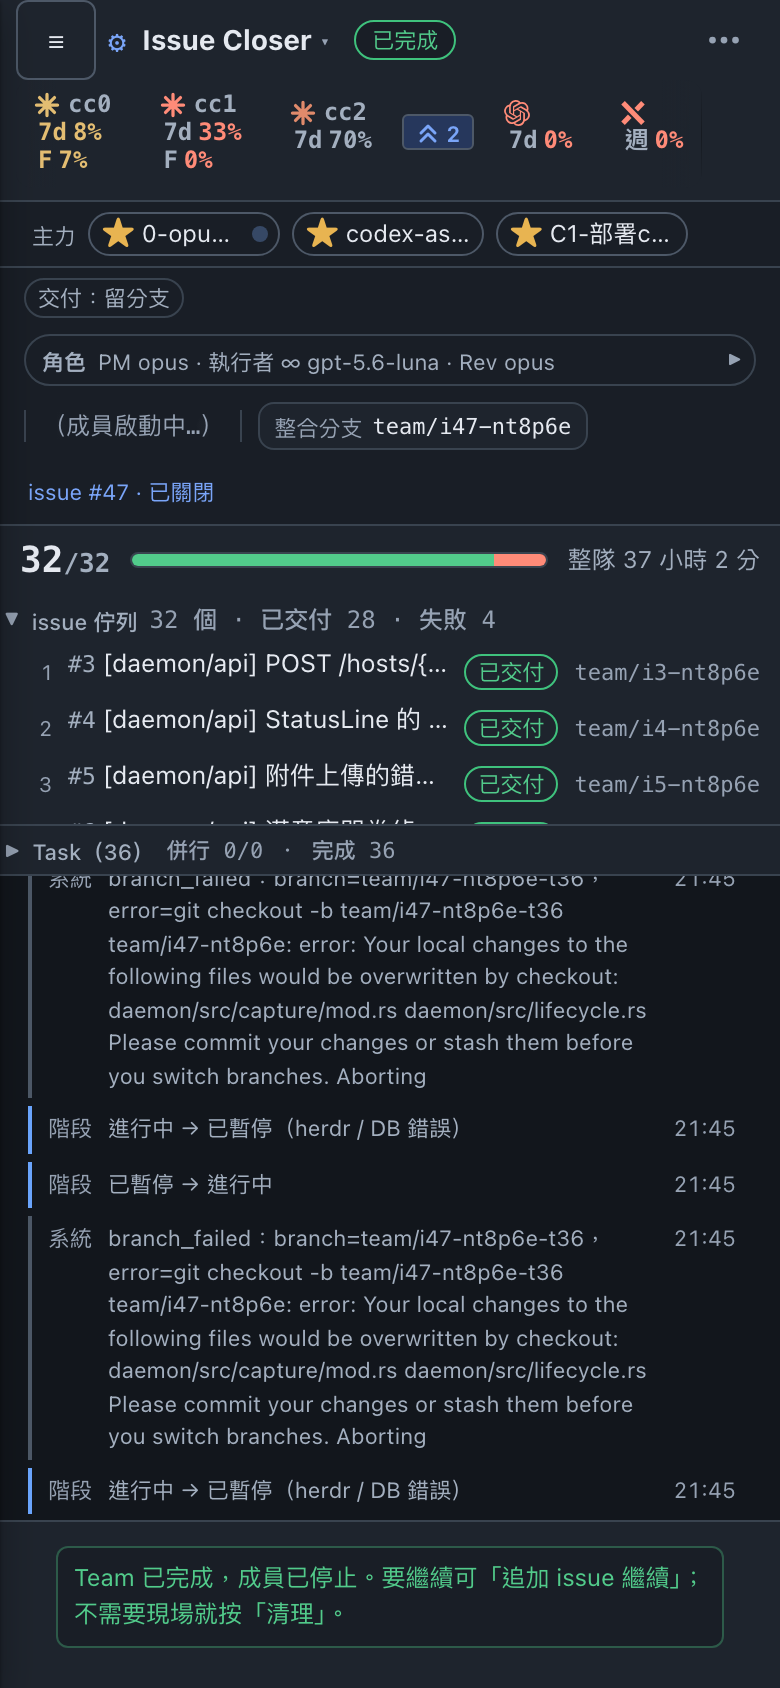
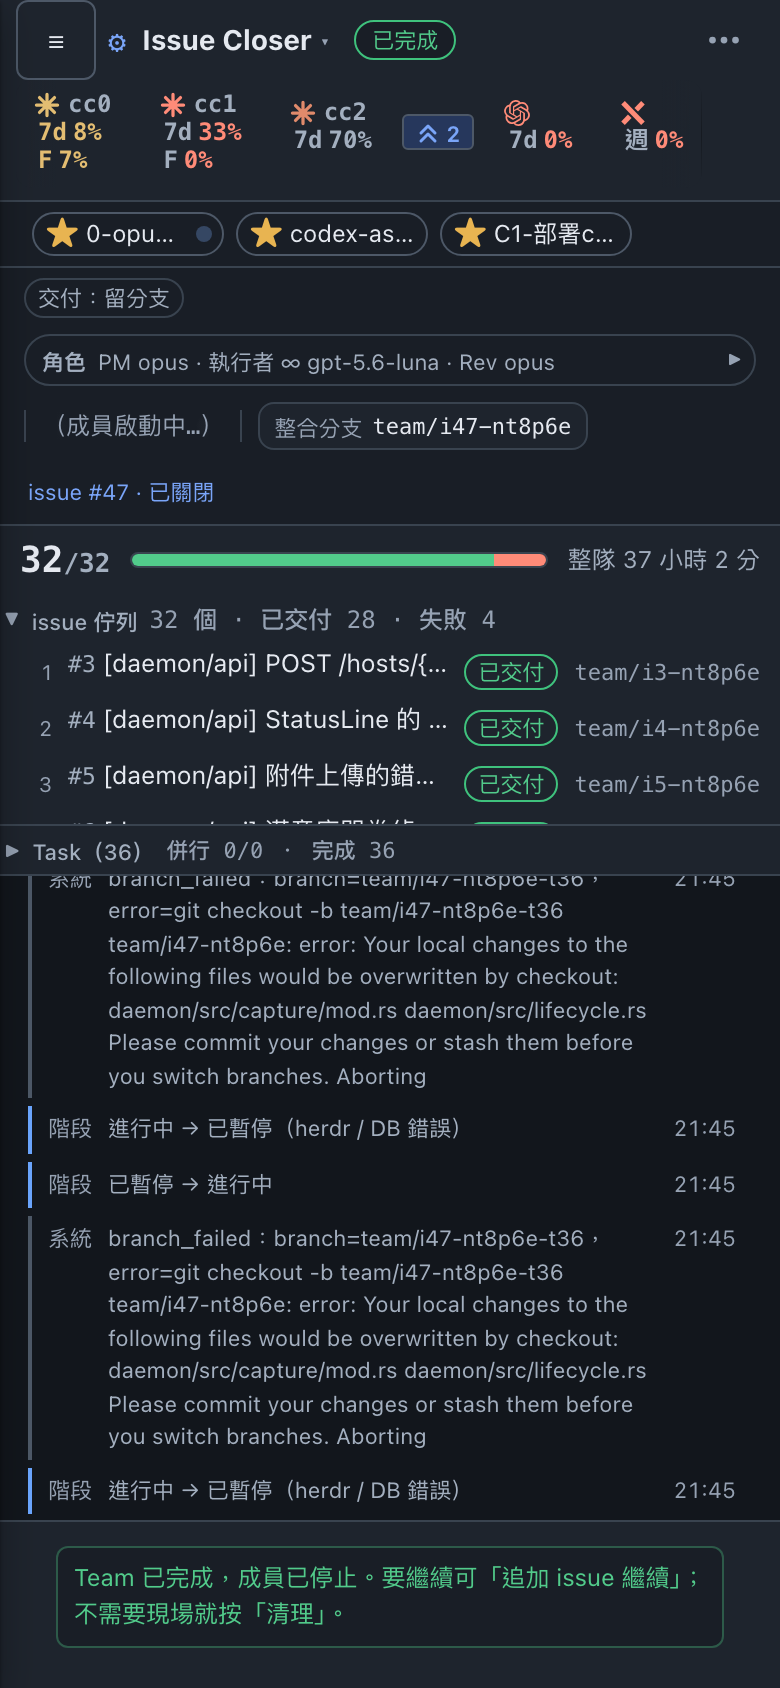
fix(web): 那一列改成「剛跑完 → 主力 → 進行中」，主力不寫標籤
使用者定的兩件事：要去看的東西排最左邊，主力跟在後面；主力那組不寫「主力」兩個字——★ 已經
說完了，多一個標籤只是佔寬度（手機上那兩個字就吃掉半顆晶片的寬）。

驗證：tsc / oxlint（無新 warning）/ build 都過；1440 / 1024 / 390px 截圖已更新。

Claude-Session: https://claude.ai/code/session_01JvgTjdjRiiXmSiud9KMakR

Changed region(s): [[0.0308, 0.1232, 0.8615, 0.154]]

diff --git a/web/src/components/UnreadChip.tsx b/web/src/components/UnreadChip.tsx
@@ -1,14 +1,15 @@
 /**
  * 標題列**下面**自成一列，由左到右三組（2026-09-11 使用者定的排法）：
  *
- * - **主力**：使用者自己用 ★ 釘的「主要執行的 bot」（`PrimaryStar`）。它回答的是「我平常
- *   在推的是哪幾顆」，跟現在有沒有事發生無關，所以**常駐**——只要釘了東西，這一列就在。
- *   本來擠在固定 60px 的標題列上（塞不下的收成 `+N`），名字被切成兩三個字反而認不出是誰；
- *   移到這一列之後可以換行，全部都看得見。
- * - **剛跑完**：跑完了還沒看。
+ * - **剛跑完**：跑完了還沒看。要去看的東西排最前面。
+ * - 接著是使用者自己用 ★ 釘的「主要執行的 bot」（`PrimaryStar`）。它回答的是「我平常在推的
+ *   是哪幾顆」，跟現在有沒有事發生無關，所以**常駐**——只要釘了東西，這一列就在。它**不寫
+ *   標籤**：★ 已經說完了（使用者定的），多一個「主力」兩個字只是佔寬度。本來擠在固定 60px
+ *   的標題列上（塞不下的收成 `+N`），名字被切成兩三個字反而認不出是誰；移到這一列之後可以
+ *   換行，全部都看得見。
  * - **進行中**：還在跑，推到最右邊。
  *
- * 後兩組是會變的狀態；三組都空的時候整列不存在、不佔高度。
+ * 頭尾兩組是會變的狀態；三組都空的時候整列不存在、不佔高度。
  *
  * 釘起來的 bot **不會**同時出現在後兩組：它的晶片本來就帶未讀數與進行中的圓點，再列一次
  * 只是同一件事佔兩格。
@@ -32,7 +33,7 @@ import { TEAM_PHASE_LABEL, TEAM_TERMINAL_PHASES } from '../api/types'
 import { useStore } from '../store/store'
 import './unreadChip.css'
 
-/** 標題列下面那一列：主力（常駐）、剛跑完、進行中。 */
+/** 標題列下面那一列：剛跑完、主力（常駐）、進行中。 */
 export function UnreadChip() {
   const bots = useStore((s) => s.bots)
   const botUnread = useStore((s) => s.botUnread)
@@ -88,7 +89,20 @@ export function UnreadChip() {
   if (pinned.length === 0 && rows.length === 0 && live === 0) return null
   return (
     <div className="unread-bar" role="status" aria-live="polite">
-      {pinned.length > 0 ? <span className="unread-bar-label">主力</span> : null}
+      {rows.length > 0 ? <span className="unread-bar-label">剛跑完</span> : null}
+      {rows.map((r) => (
+        <button
+          key={r.id}
+          type="button"
+          className={`unread-chip${r.id === selectedBotId ? ' current' : ''}`}
+          title={`${r.name} 有 ${r.n} 個回合已完成、還沒看過。點一下跳過去`}
+          onClick={() => selectBot(r.id)}
+        >
+          <span className="unread-chip-name">{r.name}</span>
+          <span className="unread-chip-n">{r.n > 99 ? '99+' : r.n}</span>
+        </button>
+      ))}
+      {/* 釘選的主力：★ 就是標籤，不另外寫字。 */}
       {pinned.map((r) => (
         <button
           key={r.id}
@@ -103,19 +117,6 @@ export function UnreadChip() {
             <span className="unread-chip-n">{botUnreadOf(r.id) > 99 ? '99+' : botUnreadOf(r.id)}</span>
           ) : null}
           {runs[r.id]?.agent_status === 'working' ? <span className="unread-chip-dot" aria-hidden="true" /> : null}
-        </button>
-      ))}
-      {rows.length > 0 ? <span className="unread-bar-label">剛跑完</span> : null}
-      {rows.map((r) => (
-        <button
-          key={r.id}
-          type="button"
-          className={`unread-chip${r.id === selectedBotId ? ' current' : ''}`}
-          title={`${r.name} 有 ${r.n} 個回合已完成、還沒看過。點一下跳過去`}
-          onClick={() => selectBot(r.id)}
-        >
-          <span className="unread-chip-name">{r.name}</span>
-          <span className="unread-chip-n">{r.n > 99 ? '99+' : r.n}</span>
         </button>
       ))}
       {live > 0 ? (

diff --git a/docs/UI-DECISIONS.md b/docs/UI-DECISIONS.md
@@ -816,9 +816,11 @@ AGM 總管那批改動曾在側欄列與對話標頭加角色標籤（`子 worke
 三顆、其餘收成 `+N`，而且名字被 `max-width: 120px`（手機 96px）切成 `0-opu…`——認不出是哪一顆，
 釘選就失去意義。
 
-改成：主力晶片搬進標題列下面那一列（`.unread-bar`），排在「剛跑完」「進行中」前面，**只要
-釘了東西這一列就在**（那一列本來三組都空才會消失）。那一列會換行，所以不再有 `+N`，全部
-名字寫完整。標題列因此空出右半邊，手機的 `.bot-head` 也從三列縮回兩列。
+改成：主力晶片搬進標題列下面那一列（`.unread-bar`），**只要釘了東西這一列就在**（那一列本來
+三組都空才會消失）。那一列會換行，所以不再有 `+N`，全部名字寫完整。標題列因此空出右半邊。
+
+順序是「剛跑完 → 主力 → 進行中」（使用者定的）：要去看的東西排最左邊，常駐的主力跟在後面。
+主力**不寫「主力」兩個字**（使用者定的）——★ 已經說完了，多一個標籤只是佔寬度。
 
 釘起來的 bot 不會同時列進「剛跑完」「進行中」：主力晶片本來就帶未讀數與進行中的圓點，再列
 一次只是同一件事佔兩格。截圖 `docs/screenshots/primary-chips-row/`。
